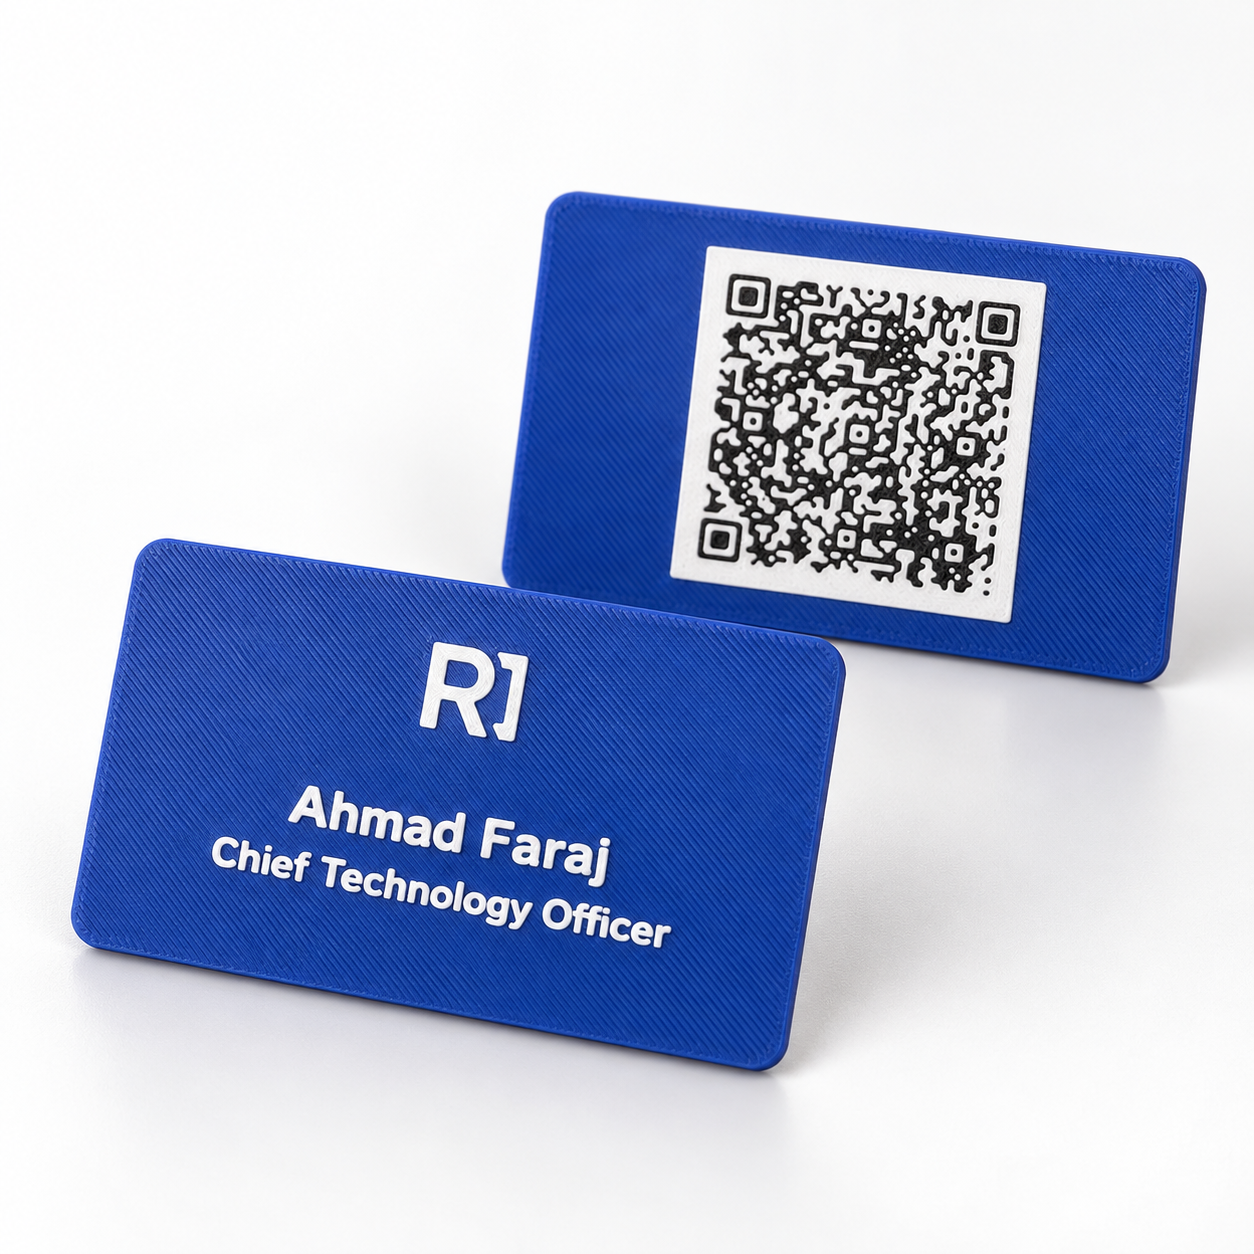
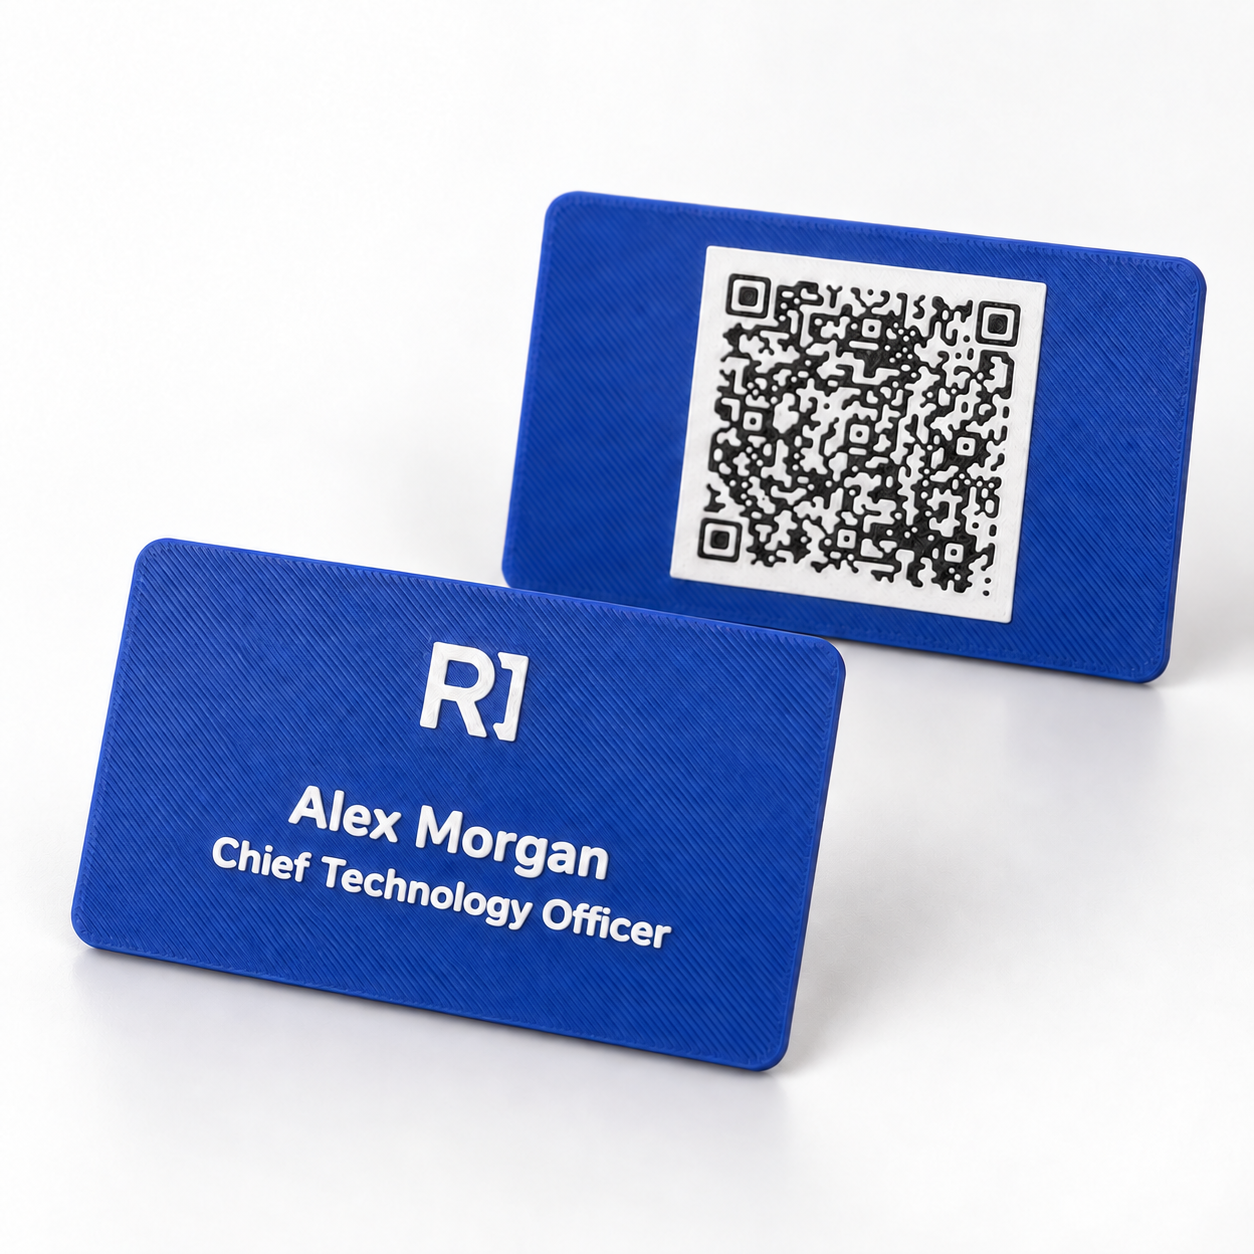
Use fictional card name and a single anonymous landing page example

diff --git a/products.html b/products.html
@@ -174,7 +174,7 @@
 
     <section class="business-card-product" aria-labelledby="business-card-title">
       <figure class="business-card-photo">
-        <img src="assets/business-card-product.png" width="1254" height="1254" alt="Product rendering of the blue 3D-printed Ahmad Faraj business card, showing the personalized front and QR-code back" loading="lazy">
+        <img src="assets/business-card-product.png?v=2" width="1254" height="1254" alt="Product rendering of the blue 3D-printed sample business card, showing the personalized front and QR-code back" loading="lazy">
         <figcaption>Personalized 3D-printed card · Front &amp; back</figcaption>
       </figure>
       <div class="business-card-copy">
@@ -189,8 +189,7 @@
           <a class="product-button primary" href="start-with-us.html?service=Customized%20Business%20Cards%20with%20Landing%20Pages">Get your business card</a>
         </div>
         <div class="business-card-examples" aria-label="Example landing pages">
-          <a href="landing-page-ahmad.html">Ahmad’s landing page <span aria-hidden="true">↗</span></a>
-          <a href="landing-page-jay.html">Rahjay’s landing page <span aria-hidden="true">↗</span></a>
+          <a href="landing-page-ahmad.html">Example 1 <span aria-hidden="true">↗</span></a>
         </div>
       </div>
     </section>
